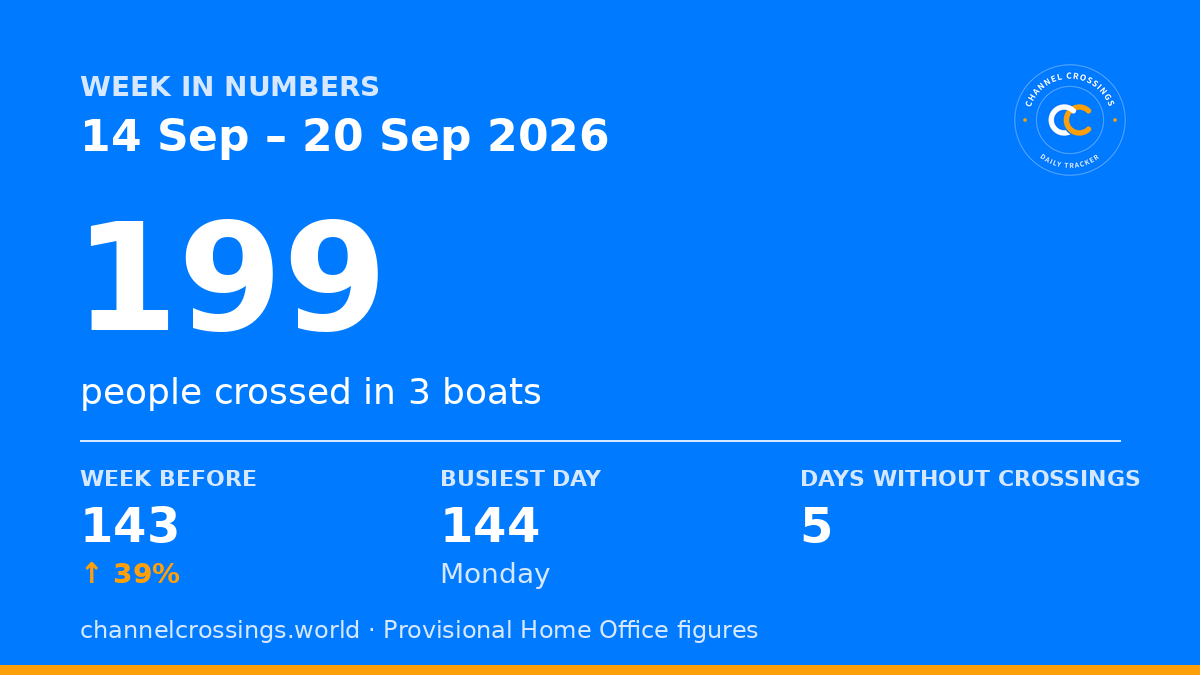
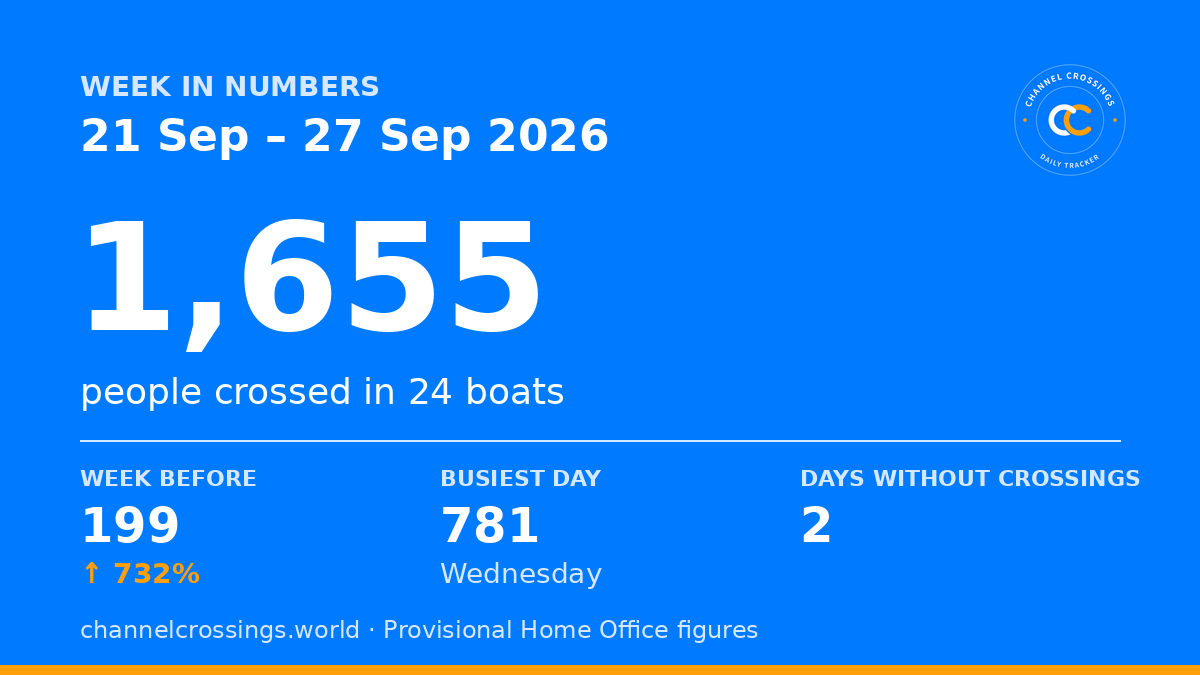
Add Sunday 27 September: 526 people in 7 boats (Home Office)
Published by the Home Office after this morning's check.

Claude-Session: https://claude.ai/code/session_01R5MLGUBuVG3dXMMTcMSEHq

diff --git a/index.html b/index.html
@@ -3,7 +3,7 @@
 <head>
 <meta charset="utf-8">
 <meta name="viewport" content="width=device-width,initial-scale=1,viewport-fit=cover">
-<meta name="description" content="No small boat crossings of the Channel were detected on Sat 26 September. 2026 so far: 18,609. Daily Home Office figures, records and Channel conditions.">
+<meta name="description" content="526 people crossed the Channel in small boats on Sun 27 September. 2026 so far: 19,135. Daily Home Office figures, records and Channel conditions.">
 <script>try{var t=localStorage.getItem("cc-theme");if(t==="light"||t==="dark")document.documentElement.setAttribute("data-theme",t)}catch(e){}</script>
 <meta name="theme-color" content="#F2F2F7" media="(prefers-color-scheme: light)">
 <meta name="theme-color" content="#000000" media="(prefers-color-scheme: dark)">
@@ -18,14 +18,14 @@
 <meta property="og:title" content="Channel Crossings: daily small boat arrivals">
 <meta property="og:description" content="How many people crossed the Channel in small boats yesterday? Daily Home Office figures, records and live Channel conditions.">
 <meta property="og:url" content="https://channelcrossings.world/">
-<meta property="og:image" content="https://channelcrossings.world/og-image.png?v=2026-09-26">
+<meta property="og:image" content="https://channelcrossings.world/og-image.png?v=2026-09-27">
 <meta property="og:image:width" content="1200">
 <meta property="og:image:height" content="630">
 <meta property="og:image:alt" content="Channel Crossings logo with the latest daily arrivals figure">
 <meta name="twitter:card" content="summary_large_image">
 <meta name="twitter:title" content="Channel Crossings: daily small boat arrivals">
 <meta name="twitter:description" content="Daily Home Office figures for small boat arrivals, with records and live Channel conditions.">
-<meta name="twitter:image" content="https://channelcrossings.world/og-image.png?v=2026-09-26">
+<meta name="twitter:image" content="https://channelcrossings.world/og-image.png?v=2026-09-27">
 <link rel="canonical" href="https://channelcrossings.world/">
 <!-- Tells Google this page is a daily dataset. The dates are kept current by scripts/update.py -->
 <script type="application/ld+json">
@@ -41,9 +41,9 @@
   "isAccessibleForFree": true,
   "keywords": ["English Channel", "small boats", "migration", "UK", "Home Office", "daily statistics"],
   "creator": {"@type": "Organization", "name": "Channel Crossings", "url": "https://channelcrossings.world/", "email": "x.chancrossings@gmail.com"},
-  "temporalCoverage": "2018-01-01/2026-09-26",
+  "temporalCoverage": "2018-01-01/2026-09-27",
   "spatialCoverage": "English Channel, United Kingdom",
-  "dateModified": "2026-09-26",
+  "dateModified": "2026-09-27",
   "distribution": [{"@type": "DataDownload", "encodingFormat": "text/csv", "contentUrl": "https://channelcrossings.world/data.csv"}]
 }
 </script>
@@ -649,7 +649,7 @@ h2{font:700 22px/1.2 var(--font);letter-spacing:.013em;margin:0}
 </div>
 
 <!-- Latest figures, rebuilt every morning by scripts/update.py so the page shows them instantly -->
-<script id="seed" type="application/json">{"ytdBase":11821,"ytdBaseDate":"2026-06-28","fullYear":true,"checkedAt":"2026-09-28T11:02:46Z","days":[{"date":"2026-06-29","migrants":0,"boats":0,"uncontrolled":null},{"date":"2026-06-30","migrants":63,"boats":1,"uncontrolled":null},{"date":"2026-07-01","migrants":0,"boats":0,"uncontrolled":null},{"date":"2026-07-02","migrants":0,"boats":0,"uncontrolled":null},{"date":"2026-07-03","migrants":0,"boats":0,"uncontrolled":null},{"date":"2026-07-04","migrants":0,"boats":0,"uncontrolled":null},{"date":"2026-07-05","migrants":0,"boats":0,"uncontrolled":null},{"date":"2026-07-06","migrants":0,"boats":0,"uncontrolled":null},{"date":"2026-07-07","migrants":0,"boats":0,"uncontrolled":null},{"date":"2026-07-08","migrants":249,"boats":4,"uncontrolled":null},{"date":"2026-07-09","migrants":81,"boats":1,"uncontrolled":null},{"date":"2026-07-10","migrants":255,"boats":3,"uncontrolled":null},{"date":"2026-07-11","migrants":0,"boats":0,"uncontrolled":null},{"date":"2026-07-12","migrants":0,"boats":0,"uncontrolled":null},{"date":"2026-07-13","migrants":0,"boats":0,"uncontrolled":null},{"date":"2026-07-14","migrants":0,"boats":0,"uncontrolled":null},{"date":"2026-07-15","migrants":0,"boats":0,"uncontrolled":null},{"date":"2026-07-16","migrants":0,"boats":0,"uncontrolled":null},{"date":"2026-07-17","migrants":0,"boats":0,"uncontrolled":null},{"date":"2026-07-18","migrants":0,"boats":0,"uncontrolled":null},{"date":"2026-07-19","migrants":0,"boats":0,"uncontrolled":null},{"date":"2026-07-20","migrants":0,"boats":0,"uncontrolled":null},{"date":"2026-07-21","migrants":0,"boats":0,"uncontrolled":null},{"date":"2026-07-22","migrants":172,"boats":3,"uncontrolled":null},{"date":"2026-07-23","migrants":366,"boats":3,"uncontrolled":null},{"date":"2026-07-24","migrants":103,"boats":2,"uncontrolled":null},{"date":"2026-07-25","migrants":240,"boats":5,"uncontrolled":null},{"date":"2026-07-26","migrants":0,"boats":0,"uncontrolled":null},{"date":"2026-07-27","migrants":0,"boats":0,"uncontrolled":null},{"date":"2026-07-28","migrants":26,"boats":1,"uncontrolled":null},{"date":"2026-07-29","migrants":752,"boats":9,"uncontrolled":null},{"date":"2026-07-30","migrants":72,"boats":1,"uncontrolled":null},{"date":"2026-07-31","migrants":0,"boats":0,"uncontrolled":null},{"date":"2026-08-01","migrants":326,"boats":4,"uncontrolled":null},{"date":"2026-08-02","migrants":0,"boats":0,"uncontrolled":null},{"date":"2026-08-03","migrants":35,"boats":1,"uncontrolled":null},{"date":"2026-08-04","migrants":0,"boats":0,"uncontrolled":null},{"date":"2026-08-05","migrants":0,"boats":0,"uncontrolled":null},{"date":"2026-08-06","migrants":0,"boats":0,"uncontrolled":null},{"date":"2026-08-07","migrants":0,"boats":0,"uncontrolled":null},{"date":"2026-08-08","migrants":258,"boats":4,"uncontrolled":null},{"date":"2026-08-09","migrants":423,"boats":5,"uncontrolled":null},{"date":"2026-08-10","migrants":230,"boats":1,"uncontrolled":null},{"date":"2026-08-11","migrants":0,"boats":0,"uncontrolled":null},{"date":"2026-08-12","migrants":0,"boats":0,"uncontrolled":null},{"date":"2026-08-13","migrants":0,"boats":0,"uncontrolled":null},{"date":"2026-08-14","migrants":93,"boats":1,"uncontrolled":null},{"date":"2026-08-15","migrants":82,"boats":1,"uncontrolled":null},{"date":"2026-08-16","migrants":0,"boats":0,"uncontrolled":null},{"date":"2026-08-17","migrants":250,"boats":3,"uncontrolled":null},{"date":"2026-08-18","migrants":0,"boats":0,"uncontrolled":null},{"date":"2026-08-19","migrants":0,"boats":0,"uncontrolled":null},{"date":"2026-08-20","migrants":0,"boats":0,"uncontrolled":null},{"date":"2026-08-21","migrants":0,"boats":0,"uncontrolled":null},{"date":"2026-08-22","migrants":0,"boats":0,"uncontrolled":null},{"date":"2026-08-23","migrants":0,"boats":0,"uncontrolled":null},{"date":"2026-08-24","migrants":0,"boats":0,"uncontrolled":null},{"date":"2026-08-25","migrants":0,"boats":0,"uncontrolled":null},{"date":"2026-08-26","migrants":0,"boats":0,"uncontrolled":null},{"date":"2026-08-27","migrants":494,"boats":7,"uncontrolled":null},{"date":"2026-08-28","migrants":122,"boats":3,"uncontrolled":null},{"date":"2026-08-29","migrants":0,"boats":0,"uncontrolled":null},{"date":"2026-08-30","migrants":0,"boats":0,"uncontrolled":null},{"date":"2026-08-31","migrants":0,"boats":0,"uncontrolled":null},{"date":"2026-09-01","migrants":0,"boats":0,"uncontrolled":null},{"date":"2026-09-02","migrants":0,"boats":0,"uncontrolled":null},{"date":"2026-09-03","migrants":0,"boats":0,"uncontrolled":null},{"date":"2026-09-04","migrants":0,"boats":0,"uncontrolled":null},{"date":"2026-09-05","migrants":0,"boats":0,"uncontrolled":null},{"date":"2026-09-06","migrants":625,"boats":8,"uncontrolled":null},{"date":"2026-09-07","migrants":143,"boats":2,"uncontrolled":null},{"date":"2026-09-08","migrants":0,"boats":0,"uncontrolled":null},{"date":"2026-09-09","migrants":0,"boats":0,"uncontrolled":null},{"date":"2026-09-10","migrants":0,"boats":0,"uncontrolled":null},{"date":"2026-09-11","migrants":0,"boats":0,"uncontrolled":null},{"date":"2026-09-12","migrants":0,"boats":0,"uncontrolled":null},{"date":"2026-09-13","migrants":0,"boats":0,"uncontrolled":null},{"date":"2026-09-14","migrants":144,"boats":2,"uncontrolled":null},{"date":"2026-09-15","migrants":55,"boats":1,"uncontrolled":null},{"date":"2026-09-16","migrants":0,"boats":0,"uncontrolled":null},{"date":"2026-09-17","migrants":0,"boats":0,"uncontrolled":null},{"date":"2026-09-18","migrants":0,"boats":0,"uncontrolled":null},{"date":"2026-09-19","migrants":0,"boats":0,"uncontrolled":0},{"date":"2026-09-20","migrants":0,"boats":0,"uncontrolled":0},{"date":"2026-09-21","migrants":150,"boats":3,"uncontrolled":1},{"date":"2026-09-22","migrants":154,"boats":3,"uncontrolled":1},{"date":"2026-09-23","migrants":781,"boats":10,"uncontrolled":0},{"date":"2026-09-24","migrants":44,"boats":1,"uncontrolled":0},{"date":"2026-09-25","migrants":0,"boats":0,"uncontrolled":0},{"date":"2026-09-26","migrants":0,"boats":0,"uncontrolled":0}],"prevYearSamePoint":32188,"periods":{"labour":{"from":"2024-07-05","people":83323,"boats":1369,"days":814},"burnham":{"from":"2026-07-20","people":6140,"boats":84,"days":69}},"extras":{"gender":{"source":"https://assets.publishing.service.gov.uk/media/6a85c41d3d82f78d5c514551/illegal-entry-routes-to-the-uk-dataset-jun-2026.xlsx","latestQuarter":"2026 Q2","period":"year ending June 2026","lastYear":{"sex":{"Male":26973,"Female":5260,"Unknown":1141},"age":{"17 and under":4993,"18 to 24":10637,"25 to 39":14341,"40 and over":2263,"Unknown":1140},"adultMen":23110,"total":33374},"since2018":{"sex":{"Male":174171,"Female":26077,"Unknown":4269},"age":{"17 and under":32306,"18 to 24":66808,"25 to 39":86529,"40 and over":14924,"Unknown":3950},"adultMen":148786,"total":204517},"updatedAt":"2026-09-27T18:15:08Z"},"petitions":{"petitions":[{"id":778181,"title":"Deploy the Royal Navy to turn illegal small boats back to France","signatures":252,"state":"open","closes":"2027-03-04","response":false,"debated":false,"url":"https://petition.parliament.uk/petitions/778181"},{"id":777795,"title":"Ban all alternative remittance systems to disrupt small boat smuggling networks","signatures":117,"state":"open","closes":"2027-02-18","response":false,"debated":false,"url":"https://petition.parliament.uk/petitions/777795"},{"id":731131,"title":"End all EU fishing rights in UK waters until France stops small boats","signatures":2273,"state":"closed","closes":"2026-02-11","response":false,"debated":false,"url":"https://petition.parliament.uk/petitions/731131"},{"id":760177,"title":"End the 2023 \u00a3476m deal with France to stop the migrants crossing the channel","signatures":996,"state":"closed","closes":"2026-09-16","response":false,"debated":false,"url":"https://petition.parliament.uk/petitions/760177"},{"id":732995,"title":"Ban UK Border Force from picking up migrants in the Channel","signatures":850,"state":"closed","closes":"2026-02-13","response":false,"debated":false,"url":"https://petition.parliament.uk/petitions/732995"},{"id":736491,"title":"Detain all illegal immigrants and put in camping sites on airfields","signatures":498,"state":"closed","closes":"2026-02-20","response":false,"debated":false,"url":"https://petition.parliament.uk/petitions/736491"},{"id":741099,"title":"Withdraw from ECHR & stop processing asylum claims until Channel crossings stop","signatures":398,"state":"closed","closes":"2026-04-01","response":false,"debated":false,"url":"https://petition.parliament.uk/petitions/741099"},{"id":739957,"title":"Reinstate the policy to deport asylum seekers to Rwanda","signatures":336,"state":"closed","closes":"2026-03-16","response":false,"debated":false,"url":"https://petition.parliament.uk/petitions/739957"},{"id":749745,"title":"Seek to establish an audit with France on expenditure securing our borders","signatures":249,"state":"closed","closes":"2026-06-22","response":false,"debated":false,"url":"https://petition.parliament.uk/petitions/749745"},{"id":728872,"title":"Do not fund officers to patrol French beaches for illegal small boat crossings","signatures":176,"state":"closed","closes":"2025-12-26","response":false,"debated":false,"url":"https://petition.parliament.uk/petitions/728872"}],"updatedAt":"2026-09-28T11:02:58Z"},"forecast":{"days":[{"date":"2026-09-28","band":"moderate","wind":8,"wave":0.6,"low":0,"typical":0,"high":13,"chance":0.26,"basis":57,"window":120,"afterRough":false},{"date":"2026-09-29","band":"moderate","wind":17,"wave":0.5,"low":0,"typical":0,"high":26,"chance":0.25,"basis":56,"window":120,"afterRough":false}],"updatedAt":"2026-09-28T11:03:00Z"}}}</script>
+<script id="seed" type="application/json">{"ytdBase":11821,"ytdBaseDate":"2026-06-29","fullYear":true,"checkedAt":"2026-09-28T14:09:16Z","days":[{"date":"2026-06-30","migrants":63,"boats":1,"uncontrolled":null},{"date":"2026-07-01","migrants":0,"boats":0,"uncontrolled":null},{"date":"2026-07-02","migrants":0,"boats":0,"uncontrolled":null},{"date":"2026-07-03","migrants":0,"boats":0,"uncontrolled":null},{"date":"2026-07-04","migrants":0,"boats":0,"uncontrolled":null},{"date":"2026-07-05","migrants":0,"boats":0,"uncontrolled":null},{"date":"2026-07-06","migrants":0,"boats":0,"uncontrolled":null},{"date":"2026-07-07","migrants":0,"boats":0,"uncontrolled":null},{"date":"2026-07-08","migrants":249,"boats":4,"uncontrolled":null},{"date":"2026-07-09","migrants":81,"boats":1,"uncontrolled":null},{"date":"2026-07-10","migrants":255,"boats":3,"uncontrolled":null},{"date":"2026-07-11","migrants":0,"boats":0,"uncontrolled":null},{"date":"2026-07-12","migrants":0,"boats":0,"uncontrolled":null},{"date":"2026-07-13","migrants":0,"boats":0,"uncontrolled":null},{"date":"2026-07-14","migrants":0,"boats":0,"uncontrolled":null},{"date":"2026-07-15","migrants":0,"boats":0,"uncontrolled":null},{"date":"2026-07-16","migrants":0,"boats":0,"uncontrolled":null},{"date":"2026-07-17","migrants":0,"boats":0,"uncontrolled":null},{"date":"2026-07-18","migrants":0,"boats":0,"uncontrolled":null},{"date":"2026-07-19","migrants":0,"boats":0,"uncontrolled":null},{"date":"2026-07-20","migrants":0,"boats":0,"uncontrolled":null},{"date":"2026-07-21","migrants":0,"boats":0,"uncontrolled":null},{"date":"2026-07-22","migrants":172,"boats":3,"uncontrolled":null},{"date":"2026-07-23","migrants":366,"boats":3,"uncontrolled":null},{"date":"2026-07-24","migrants":103,"boats":2,"uncontrolled":null},{"date":"2026-07-25","migrants":240,"boats":5,"uncontrolled":null},{"date":"2026-07-26","migrants":0,"boats":0,"uncontrolled":null},{"date":"2026-07-27","migrants":0,"boats":0,"uncontrolled":null},{"date":"2026-07-28","migrants":26,"boats":1,"uncontrolled":null},{"date":"2026-07-29","migrants":752,"boats":9,"uncontrolled":null},{"date":"2026-07-30","migrants":72,"boats":1,"uncontrolled":null},{"date":"2026-07-31","migrants":0,"boats":0,"uncontrolled":null},{"date":"2026-08-01","migrants":326,"boats":4,"uncontrolled":null},{"date":"2026-08-02","migrants":0,"boats":0,"uncontrolled":null},{"date":"2026-08-03","migrants":35,"boats":1,"uncontrolled":null},{"date":"2026-08-04","migrants":0,"boats":0,"uncontrolled":null},{"date":"2026-08-05","migrants":0,"boats":0,"uncontrolled":null},{"date":"2026-08-06","migrants":0,"boats":0,"uncontrolled":null},{"date":"2026-08-07","migrants":0,"boats":0,"uncontrolled":null},{"date":"2026-08-08","migrants":258,"boats":4,"uncontrolled":null},{"date":"2026-08-09","migrants":423,"boats":5,"uncontrolled":null},{"date":"2026-08-10","migrants":230,"boats":1,"uncontrolled":null},{"date":"2026-08-11","migrants":0,"boats":0,"uncontrolled":null},{"date":"2026-08-12","migrants":0,"boats":0,"uncontrolled":null},{"date":"2026-08-13","migrants":0,"boats":0,"uncontrolled":null},{"date":"2026-08-14","migrants":93,"boats":1,"uncontrolled":null},{"date":"2026-08-15","migrants":82,"boats":1,"uncontrolled":null},{"date":"2026-08-16","migrants":0,"boats":0,"uncontrolled":null},{"date":"2026-08-17","migrants":250,"boats":3,"uncontrolled":null},{"date":"2026-08-18","migrants":0,"boats":0,"uncontrolled":null},{"date":"2026-08-19","migrants":0,"boats":0,"uncontrolled":null},{"date":"2026-08-20","migrants":0,"boats":0,"uncontrolled":null},{"date":"2026-08-21","migrants":0,"boats":0,"uncontrolled":null},{"date":"2026-08-22","migrants":0,"boats":0,"uncontrolled":null},{"date":"2026-08-23","migrants":0,"boats":0,"uncontrolled":null},{"date":"2026-08-24","migrants":0,"boats":0,"uncontrolled":null},{"date":"2026-08-25","migrants":0,"boats":0,"uncontrolled":null},{"date":"2026-08-26","migrants":0,"boats":0,"uncontrolled":null},{"date":"2026-08-27","migrants":494,"boats":7,"uncontrolled":null},{"date":"2026-08-28","migrants":122,"boats":3,"uncontrolled":null},{"date":"2026-08-29","migrants":0,"boats":0,"uncontrolled":null},{"date":"2026-08-30","migrants":0,"boats":0,"uncontrolled":null},{"date":"2026-08-31","migrants":0,"boats":0,"uncontrolled":null},{"date":"2026-09-01","migrants":0,"boats":0,"uncontrolled":null},{"date":"2026-09-02","migrants":0,"boats":0,"uncontrolled":null},{"date":"2026-09-03","migrants":0,"boats":0,"uncontrolled":null},{"date":"2026-09-04","migrants":0,"boats":0,"uncontrolled":null},{"date":"2026-09-05","migrants":0,"boats":0,"uncontrolled":null},{"date":"2026-09-06","migrants":625,"boats":8,"uncontrolled":null},{"date":"2026-09-07","migrants":143,"boats":2,"uncontrolled":null},{"date":"2026-09-08","migrants":0,"boats":0,"uncontrolled":null},{"date":"2026-09-09","migrants":0,"boats":0,"uncontrolled":null},{"date":"2026-09-10","migrants":0,"boats":0,"uncontrolled":null},{"date":"2026-09-11","migrants":0,"boats":0,"uncontrolled":null},{"date":"2026-09-12","migrants":0,"boats":0,"uncontrolled":null},{"date":"2026-09-13","migrants":0,"boats":0,"uncontrolled":null},{"date":"2026-09-14","migrants":144,"boats":2,"uncontrolled":null},{"date":"2026-09-15","migrants":55,"boats":1,"uncontrolled":null},{"date":"2026-09-16","migrants":0,"boats":0,"uncontrolled":null},{"date":"2026-09-17","migrants":0,"boats":0,"uncontrolled":null},{"date":"2026-09-18","migrants":0,"boats":0,"uncontrolled":null},{"date":"2026-09-19","migrants":0,"boats":0,"uncontrolled":0},{"date":"2026-09-20","migrants":0,"boats":0,"uncontrolled":0},{"date":"2026-09-21","migrants":150,"boats":3,"uncontrolled":1},{"date":"2026-09-22","migrants":154,"boats":3,"uncontrolled":1},{"date":"2026-09-23","migrants":781,"boats":10,"uncontrolled":0},{"date":"2026-09-24","migrants":44,"boats":1,"uncontrolled":0},{"date":"2026-09-25","migrants":0,"boats":0,"uncontrolled":0},{"date":"2026-09-26","migrants":0,"boats":0,"uncontrolled":0},{"date":"2026-09-27","migrants":526,"boats":7,"uncontrolled":0}],"prevYearSamePoint":33083,"periods":{"labour":{"from":"2024-07-05","people":83849,"boats":1376,"days":815},"burnham":{"from":"2026-07-20","people":6666,"boats":91,"days":70}},"extras":{"gender":{"source":"https://assets.publishing.service.gov.uk/media/6a85c41d3d82f78d5c514551/illegal-entry-routes-to-the-uk-dataset-jun-2026.xlsx","latestQuarter":"2026 Q2","period":"year ending June 2026","lastYear":{"sex":{"Male":26973,"Female":5260,"Unknown":1141},"age":{"17 and under":4993,"18 to 24":10637,"25 to 39":14341,"40 and over":2263,"Unknown":1140},"adultMen":23110,"total":33374},"since2018":{"sex":{"Male":174171,"Female":26077,"Unknown":4269},"age":{"17 and under":32306,"18 to 24":66808,"25 to 39":86529,"40 and over":14924,"Unknown":3950},"adultMen":148786,"total":204517},"updatedAt":"2026-09-27T18:15:08Z"},"petitions":{"petitions":[{"id":778181,"title":"Deploy the Royal Navy to turn illegal small boats back to France","signatures":252,"state":"open","closes":"2027-03-04","response":false,"debated":false,"url":"https://petition.parliament.uk/petitions/778181"},{"id":777795,"title":"Ban all alternative remittance systems to disrupt small boat smuggling networks","signatures":117,"state":"open","closes":"2027-02-18","response":false,"debated":false,"url":"https://petition.parliament.uk/petitions/777795"},{"id":731131,"title":"End all EU fishing rights in UK waters until France stops small boats","signatures":2273,"state":"closed","closes":"2026-02-11","response":false,"debated":false,"url":"https://petition.parliament.uk/petitions/731131"},{"id":760177,"title":"End the 2023 \u00a3476m deal with France to stop the migrants crossing the channel","signatures":996,"state":"closed","closes":"2026-09-16","response":false,"debated":false,"url":"https://petition.parliament.uk/petitions/760177"},{"id":732995,"title":"Ban UK Border Force from picking up migrants in the Channel","signatures":850,"state":"closed","closes":"2026-02-13","response":false,"debated":false,"url":"https://petition.parliament.uk/petitions/732995"},{"id":736491,"title":"Detain all illegal immigrants and put in camping sites on airfields","signatures":498,"state":"closed","closes":"2026-02-20","response":false,"debated":false,"url":"https://petition.parliament.uk/petitions/736491"},{"id":741099,"title":"Withdraw from ECHR & stop processing asylum claims until Channel crossings stop","signatures":398,"state":"closed","closes":"2026-04-01","response":false,"debated":false,"url":"https://petition.parliament.uk/petitions/741099"},{"id":739957,"title":"Reinstate the policy to deport asylum seekers to Rwanda","signatures":336,"state":"closed","closes":"2026-03-16","response":false,"debated":false,"url":"https://petition.parliament.uk/petitions/739957"},{"id":749745,"title":"Seek to establish an audit with France on expenditure securing our borders","signatures":249,"state":"closed","closes":"2026-06-22","response":false,"debated":false,"url":"https://petition.parliament.uk/petitions/749745"},{"id":728872,"title":"Do not fund officers to patrol French beaches for illegal small boat crossings","signatures":176,"state":"closed","closes":"2025-12-26","response":false,"debated":false,"url":"https://petition.parliament.uk/petitions/728872"}],"updatedAt":"2026-09-28T11:02:58Z"},"forecast":{"days":[{"date":"2026-09-28","band":"moderate","wind":8,"wave":0.6,"low":0,"typical":0,"high":13,"chance":0.26,"basis":57,"window":120,"afterRough":false},{"date":"2026-09-29","band":"moderate","wind":17,"wave":0.5,"low":0,"typical":0,"high":26,"chance":0.25,"basis":56,"window":120,"afterRough":false}],"updatedAt":"2026-09-28T11:03:00Z"}}}</script>
 <script>
 (function(){
   const $ = id => document.getElementById(id);
